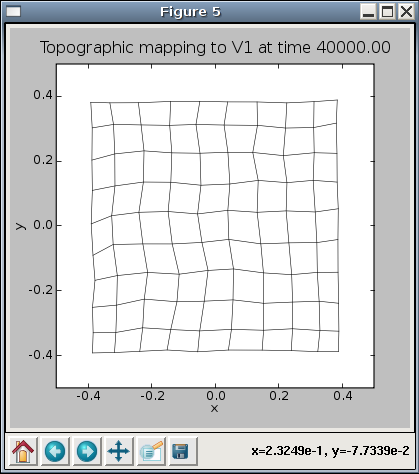
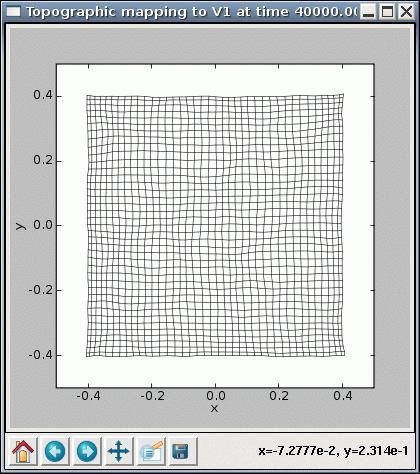
Reverted to full-density simulation; reduced-density version needs work

diff --git a/doc/Tutorials/som_retinotopy_text.php b/doc/Tutorials/som_retinotopy_text.php
@@ -31,6 +31,7 @@ develops a mapping of the input space.
   $ cp /home/jbednar/public/topographica/examples/som_retinotopy.ty .
 </pre>
 
+<!--
 <P><li>Next, you will usually want to edit the <code>som_retinotopy.ty</code> file to make it
   faster to run, by reducing the number of units simulated in the
   retina and V1.  On most machines, a GeneratorSheet.nominal_density of 10
@@ -43,6 +44,16 @@ develops a mapping of the input space.
 <pre>
   $ emacs som_retinotopy.ty
   $ diff som_retinotopy.ty~ som_retinotopy.ty
+  66c66
+  < RetinotopicSOM.nominal_density = locals().get('default_density',40.0)
+  ---
+  > RetinotopicSOM.nominal_density = locals().get('default_density',10.0)
+  69,70c69,70
+  < RetinotopicSOM.radius_0 = 13.2/40
+  ---
+  > RetinotopicSOM.radius_0 = 15.0/40.0
+
+  $ diff som_retinotopy.ty~ som_retinotopy.ty
   65c65
   < GeneratorSheet.nominal_density = 24
   ---
@@ -52,7 +63,7 @@ develops a mapping of the input space.
   ---
   > RetinotopicSOM.nominal_density = locals().get('default_density',10.0)
 </pre>
-
+-->
 
 <P><li> Next, start the Topographica GUI, telling it to load the
 SOM retinotopy simulation:
@@ -64,7 +75,7 @@ SOM retinotopy simulation:
 You should see a new window for the GUI:
 <p class='center'>
 <img src="images/topographica_console.png" alt="Console Window"
-align="middle" width="496" height="215">
+align="middle" width="370" height="239">
 </p>
 <p>
 The window and button style will differ on different platforms, but
@@ -81,12 +92,10 @@ sheet and one cortical sheet. The architecture can be viewed in the
   is also shown below: 
 <p class='center'>
 <img src="images/som_network_diagram.png" alt="SOM network."
-align="middle" WIDTH="232" HEIGHT="198" border=2>
+align="middle" WIDTH="261" HEIGHT="318" border=2>
 </p>
 
-<P>Note that the model editor representation of this network does not
-currently reflect that the units are fully connected; this should
-change in the future.
+<P>The large circle indicates that these two Sheets are fully connected.
 
 <p></p>
 </li>
@@ -95,12 +104,12 @@ change in the future.
 class='t_item'>Projection</span> from the <span
 class='t_item'>Plots</span> menu to get the <span
 class='w_title'>Projection</span> window.  This plot shows the initial
-set of weights from a 10x10 subset of the V1 neurons (i.e., all
-neurons for this small network):
+set of weights from a 10x10 subset of the V1 neurons:
+<!-- (i.e., all neurons for this small network): -->
 
 <p class='center'>
 <img src="images/som_projection_000000.png" alt="Projection window at 0"
-align="middle" WIDTH="583" HEIGHT="389">
+align="middle" WIDTH="615" HEIGHT="457">
 </p>
 
 <p>
@@ -122,7 +131,7 @@ the <span class='w_title'>Center of Gravity</span>
 plot window:
 
 <p class='center'>
-<IMG WIDTH="408" HEIGHT="218" SRC="images/som_cog_000000.png"  align="middle" alt="CoG bitmap plots">
+<IMG WIDTH="513" HEIGHT="326" SRC="images/som_cog_000000.png"  align="middle" alt="CoG bitmap plots">
 </p>
 
 the V1 X CoG plot shows the X location preferred by each neuron, where
@@ -162,7 +171,7 @@ represents the SOM Euclidean-distance response function.  Select
 the <span class='t_item'>Plots</span> menu to get the following plot:
 
 <p class='center'>
-<IMG WIDTH="408" HEIGHT="218" SRC="images/som_activity_000000.png" align="middle" alt="Activity at 0">
+<IMG WIDTH="408" HEIGHT="326" SRC="images/som_activity_000000.png" align="middle" alt="Activity at 0">
 </p>
 
 <p>This window shows the response for each Sheet in the model, which
@@ -174,14 +183,14 @@ ensure that the response will be larger for smaller Euclidean
 distances (as one intuitively expects for a neural response).
 
 <P><li>To run one input generation, presentation, activation, and
-learning iteration, click in the <span class='t_item'>Learning
-iterations</span> field of the <span class='w_title'>Topographica
-Console</span> window, make sure it says 1, and press return.  The
+learning iteration, click in the <span class='t_item'>Run
+for</span> field of the <span class='w_title'>Topographica
+Console</span> window, make sure it says 1, and hit Go.  The
 <span class='w_title'>Activity</span> window should then refresh to
 show:
 
 <p class='center'>
-<IMG WIDTH="408" HEIGHT="218" SRC="images/som_activity_000001.png" align="middle" alt="Activity at 0">
+<IMG WIDTH="408" HEIGHT="326" SRC="images/som_activity_000001.png" align="middle" alt="Activity at 0">
 </p>
 
 <p>In the <span class='t_item'>Retina</span> plot, each photoreceptor
@@ -207,7 +216,7 @@ of the neurons have learned new weight patterns based on this input.
 
 <p class='center'>
 <img src="images/som_projection_000001.png" alt="Projection window at 1"
-align="middle" WIDTH="583" HEIGHT="389">
+align="middle" WIDTH="615" HEIGHT="457">
 </p>
 
 (You should probably turn on the <span
@@ -221,9 +230,8 @@ units within a circular area defined by a Gaussian-shaped
 
 <P>This effect is visible in the <span
 class='w_title'>Projection</span> plot -- a few neurons around the
-winning unit at the middle right have changed their weights.
-Continue pressing return in the <span
-class='t_item'>Learning iterations</span> field to learn a few more
+winning unit at the top middle have changed their weights.
+Continue pressing Go in the Console window to learn a few more
 patterns, each time noticing that a new input pattern is generated and
 the weights are updated.  After a few iterations it should be clear
 that the input patterns are becoming represented in the weight
@@ -231,30 +239,30 @@ patterns, though not very cleanly yet:
 
 <p class='center'>
 <img src="images/som_projection_000006.png" alt="Projection window at 1"
-align="middle" WIDTH="583" HEIGHT="389">
+align="middle" WIDTH="615" HEIGHT="457">
 </p>
 
 Also note that the activation patterns are becoming smoother, since
 the weight vectors are now similar between neighboring neurons:
 
 <p class='center'>
-<IMG WIDTH="408" HEIGHT="218" SRC="images/som_activity_000006.png" align="middle" alt="Activity at 0">
+<IMG WIDTH="408" HEIGHT="326" SRC="images/som_activity_000006.png" align="middle" alt="Activity at 0">
 </p>
 
 <P><li>Continue training for a while and looking at the activation and
 weight patterns.  Instead of 1, you can change the
 <span
-class='t_item'>Learning iterations</span> field to any number to train
+class='t_item'>Run for</span> field to any number to train
 several iterations in a batch, e.g. 10.  After 100 iterations, 
 updating the <span class='w_title'>Center of Gravity</span> should
 result in something like:
 
 <p class='center'>
-<IMG WIDTH="408" HEIGHT="218" SRC="images/som_cog_000000.png"  align="middle" alt="CoG bitmap plots">
+<IMG WIDTH="513" HEIGHT="326" SRC="images/som_cog_000100.png"  align="middle" alt="CoG bitmap plots">
 </p>
 
-The X and Y CoG plots are now smooth, but not yet the simple gradients
-(e.g. left to right) that a proper topographic mapping would
+The X and Y CoG plots are now smooth, but not yet the axis-aligned gradients
+(e.g. left to right) that an optimal topographic mapping would
 have. Similarly, the topographic grid plot:
 
 <p class='center'>
@@ -263,7 +271,7 @@ have. Similarly, the topographic grid plot:
 
 shows that the network is now responding to different regions of the
 input space, but that most regions of the input space are not covered
-properly.  Additional training up to 10000 iterations leads to a flat
+properly.  Additional training up to 10000 iterations leads to a flat, square
 map:
 
 <p class='center'>
@@ -283,12 +291,14 @@ matching a prototypical input at one location:
 
 <p class='center'>
 <img src="images/som_projection_040000.png" alt="Projection window at 40000"
-align="middle" WIDTH="583" HEIGHT="389">
+align="middle" WIDTH="615" HEIGHT="457">
 </p>
 
-For this particular example, the topographic mapping happens to be in
-the same orientation as the retina.  For example, responses to patterns in the
-upper left of the retina lead to responses in the upper left of the
+For this particular example, the topographic mapping for the x
+dimension happens to be in the same orientation as the retina, and for
+the y dimension happens to be opposite.
+For example, responses to patterns in the
+upper left of the retina lead to responses in the bottom left of the
 cortex.  There is no reason this should be the case in general, and
 the map can be flipped or rotated by 90 degrees along any axis with
 equivalent results.
@@ -302,7 +312,7 @@ which all future values are calculated according to exponential
 decay), type:
 
 <pre>
-  V1.radius_0
+  topo.sim['V1'].radius_0
 </pre>
 
 
@@ -311,10 +321,11 @@ your terminal window. Then change this value as you see fit, e.g. to
 0.1:
 
 <pre>
-  V1.radius_0=0.1
+  topo.sim['V1'].radius_0=0.1
 </pre>
 
-and go through learning again.  With such a small learning radius,
+and go through learning again.  (You can also make this change in the Model Editor.) 
+With such a small learning radius,
 global ordering is unlikely to happen, and one can expect the
 topographic grid not to flatten out (despite local order in patches).
 <br>
@@ -334,8 +345,8 @@ different set of initial weights.
 of map.  E.g. if an oriented pattern is used, with random
 orientations, neurons will become selective for orientation and not
 just position.  See the <code>examples/obermayer_pnas90.ty</code> file
-for more details, though that simulation is quite processor-intensive
-compared to this one.
+for more details. <!--, though that simulation is quite processor-intensive
+compared to this one. -->
 
 </ol>
 
